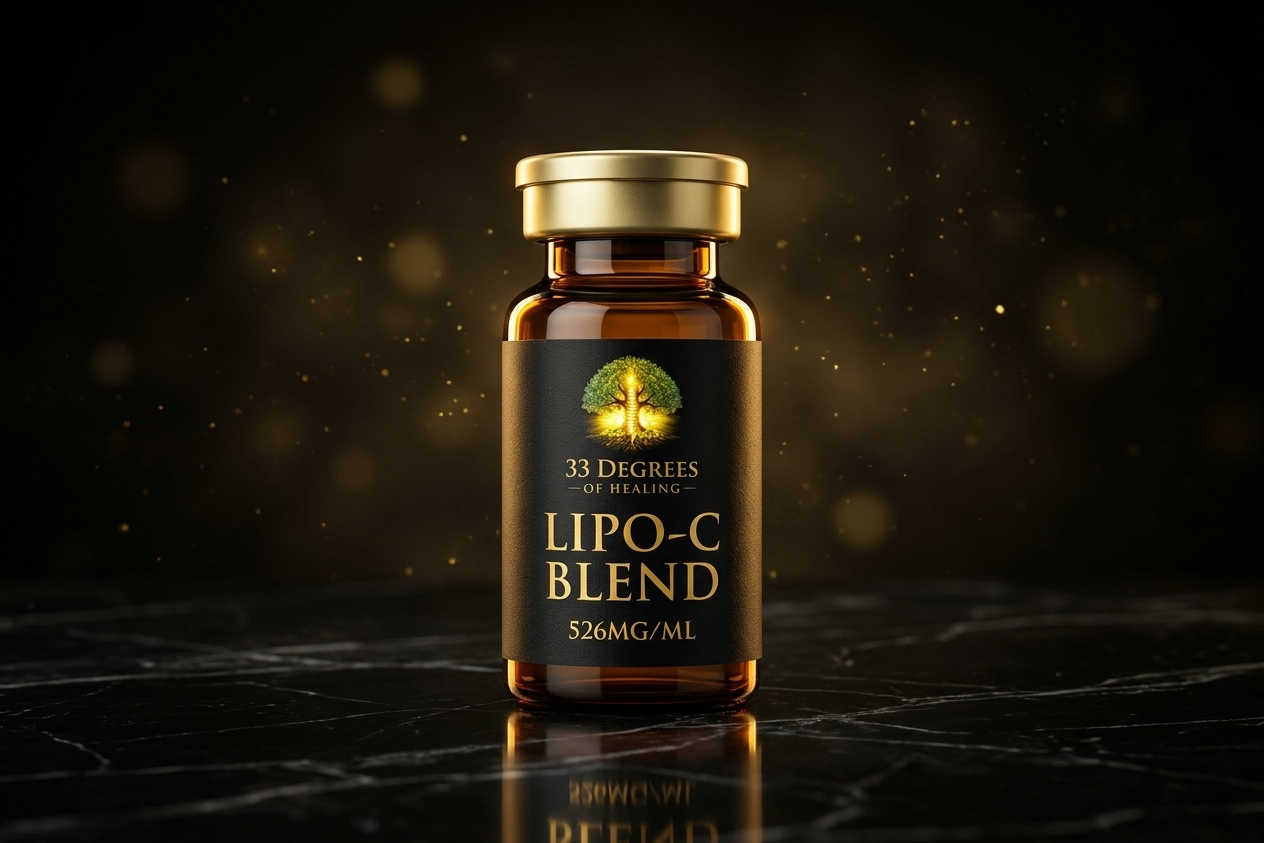
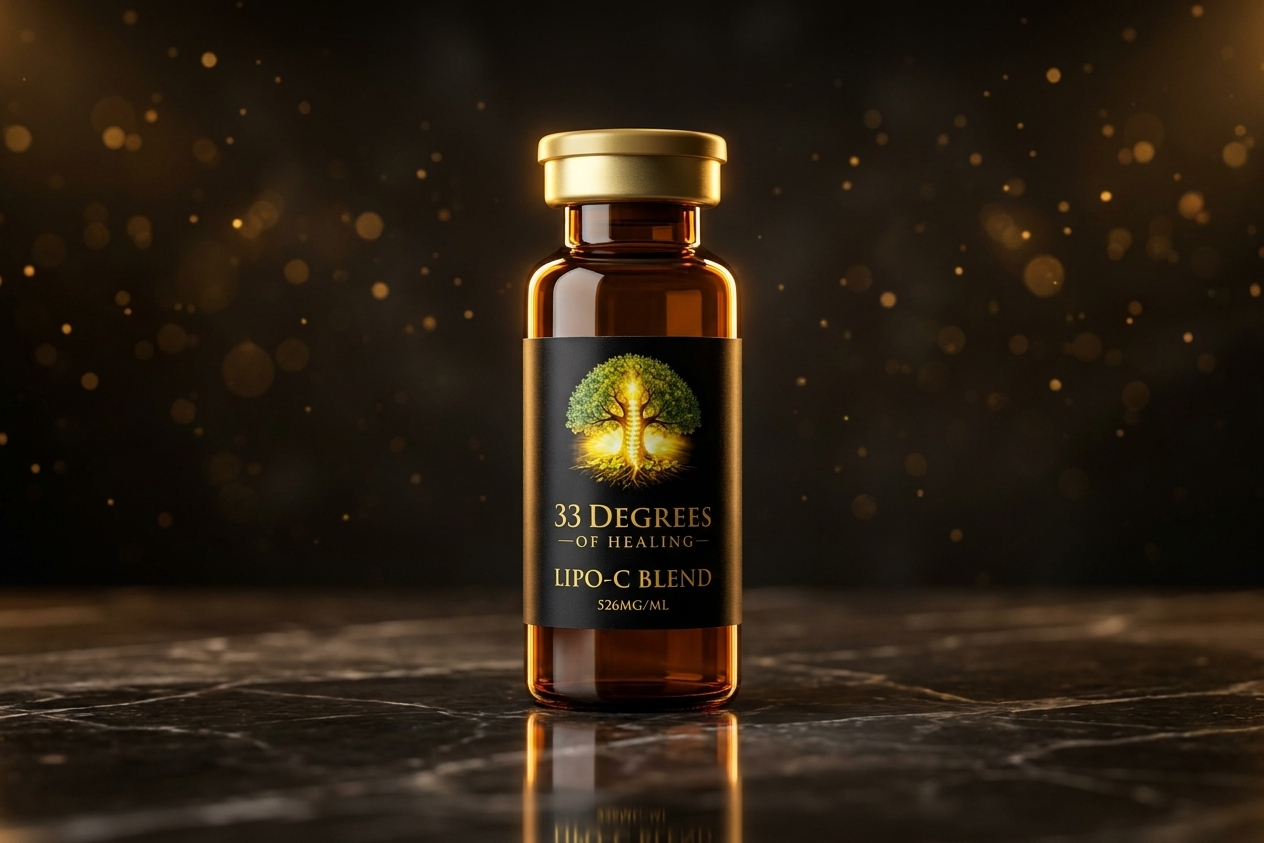
Regenerate LIPO-C vial to match existing peptide vial styling
Previous render was a stout supplement bottle with white margins.
Updated prompt specifies tall pharmaceutical injection vial, small
flip-off cap, label layout matching PT-141 / Kisspeptin / Selank,
and full-bleed dark composition.

diff --git a/tools/generate_lipo_vial_ai.py b/tools/generate_lipo_vial_ai.py
@@ -25,21 +25,33 @@ client = genai.Client(api_key=API_KEY)
 
 
 def generate():
-    prompt = """Generate a photorealistic product image of a premium amber glass pharmaceutical vial/bottle for a research compound company called "33 Degrees of Healing".
+    prompt = """Generate a photorealistic product image of a small amber glass PEPTIDE INJECTION VIAL for a research compound company called "33 Degrees of Healing". This must visually match a lineup of existing peptide vials (PT-141, Kisspeptin, Selank, Semax) shown alongside it on the website.
 
-Use the attached label image as reference for the brand design — golden tree of life logo, gold-on-black typography.
+CRITICAL SHAPE & PROPORTION REQUIREMENTS:
+- Small pharmaceutical-style amber/brown glass injection vial, NOT a supplement bottle
+- TALLER than wide — roughly 2.5x taller than its diameter
+- Has a distinct neck and shoulder (narrower at the top where the stopper sits)
+- Small GOLD ALUMINUM FLIP-OFF CAP — the kind on injectable medication vials (small, rounded crown shape, NOT a flat screw-top)
+- The vial is small enough to hold in two fingers
 
-The bottle should:
-- Be an amber/brown glass pharmaceutical vial with a gold aluminum flip-off cap
-- Have a black label with the golden tree of life logo (from reference), the text "33 DEGREES OF HEALING" in small gold serif at top, then "LIPO-C BLEND" as the prominent product name in large gold text, then "526MG/ML" in smaller gold text below
-- Be sitting on a dark reflective surface like black marble or dark wood
-- Have dramatic studio lighting with warm golden rim lighting
-- Dark moody background with subtle golden bokeh/particles
-- Premium, medical-grade, luxurious look
-- High-end supplement product photography style
-- Single bottle, centered, with slight reflection on surface below
+LABEL LAYOUT (must match the existing lineup exactly):
+- Black rectangular label wrapping the middle of the vial body (does NOT cover the entire body)
+- At the TOP of the label: the golden tree of life logo (from attached reference) — prominent and centered
+- Below the logo: "33 DEGREES OF HEALING" in SMALL gold serif text (subtle, decorative)
+- Below the brand: "LIPO-C BLEND" as the product name in MEDIUM-SIZED gold serif text (NOT huge — same scale as "PT-141" or "Kisspeptin" would be on a peptide vial)
+- At the BOTTOM of the label: "526MG/ML" in tiny gold text
+- The label should NOT have huge oversized product-name text
 
-Overall aesthetic: dark, premium, scientific with gold accents — should match a series of other peptide vials in the same lineup."""
+STAGING (match other vials — CRITICAL):
+- FULL-BLEED DARK SCENE — entire image frame must be dark/black background, NO white borders, NO white margins, NO bright frame around the composition
+- Vial sits on dark reflective marble surface that extends to the edges of the image
+- Dramatic studio lighting with warm golden rim lighting along the vial edges
+- Dark moody background with subtle gold bokeh particles
+- Single vial, centered, with subtle reflection on the marble surface below
+- Premium medical-grade injection-vial photography
+- The composition should look like a tight close-up product shot, NOT a render of a vial on a podium with empty space around it
+
+Use the attached label image strictly as brand-design reference for the tree logo and gold-on-black typography styling. The OUTPUT vial must look like a small pharmaceutical injection vial in the same family as the other research peptide vials, NOT a wider supplement bottle."""
 
     with open(LABEL_PATH, "rb") as f:
         label_bytes = f.read()
